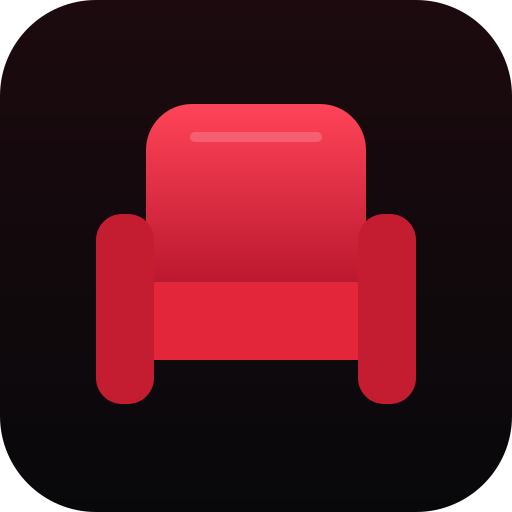
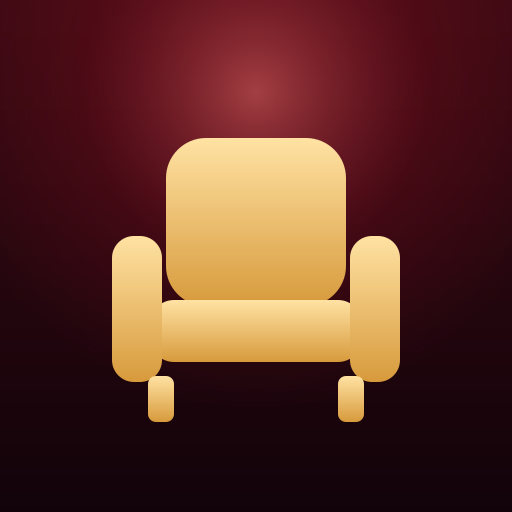
Icono nuevo y vuelta a Salón al salir
- Icono: butaca dorada sobre terciopelo granate con foco cenital
- Al salir con Atrás desde el inicio, abre Salón (el launcher de
  samsung-debloat) si está instalado; si no, sale como antes

diff --git a/tv/src/lib/keys.ts b/tv/src/lib/keys.ts
@@ -38,10 +38,18 @@ export function installKeys() {
   })
 }
 
+/** Sale de Butaca. Si está Salón (el launcher), vuelve a él en vez de caer en el inicio de Samsung. */
 export function exitApp() {
+  const exit = () => {
+    try {
+      tizen.application.getCurrentApplication().exit()
+    } catch { /* navegador */ }
+  }
   try {
-    tizen.application.getCurrentApplication().exit()
-  } catch { /* navegador */ }
+    tizen.application.launch('salonHome1.Salon', exit, exit)
+  } catch {
+    exit()
+  }
 }
 
 export const isTizen = () => typeof tizen !== 'undefined'
